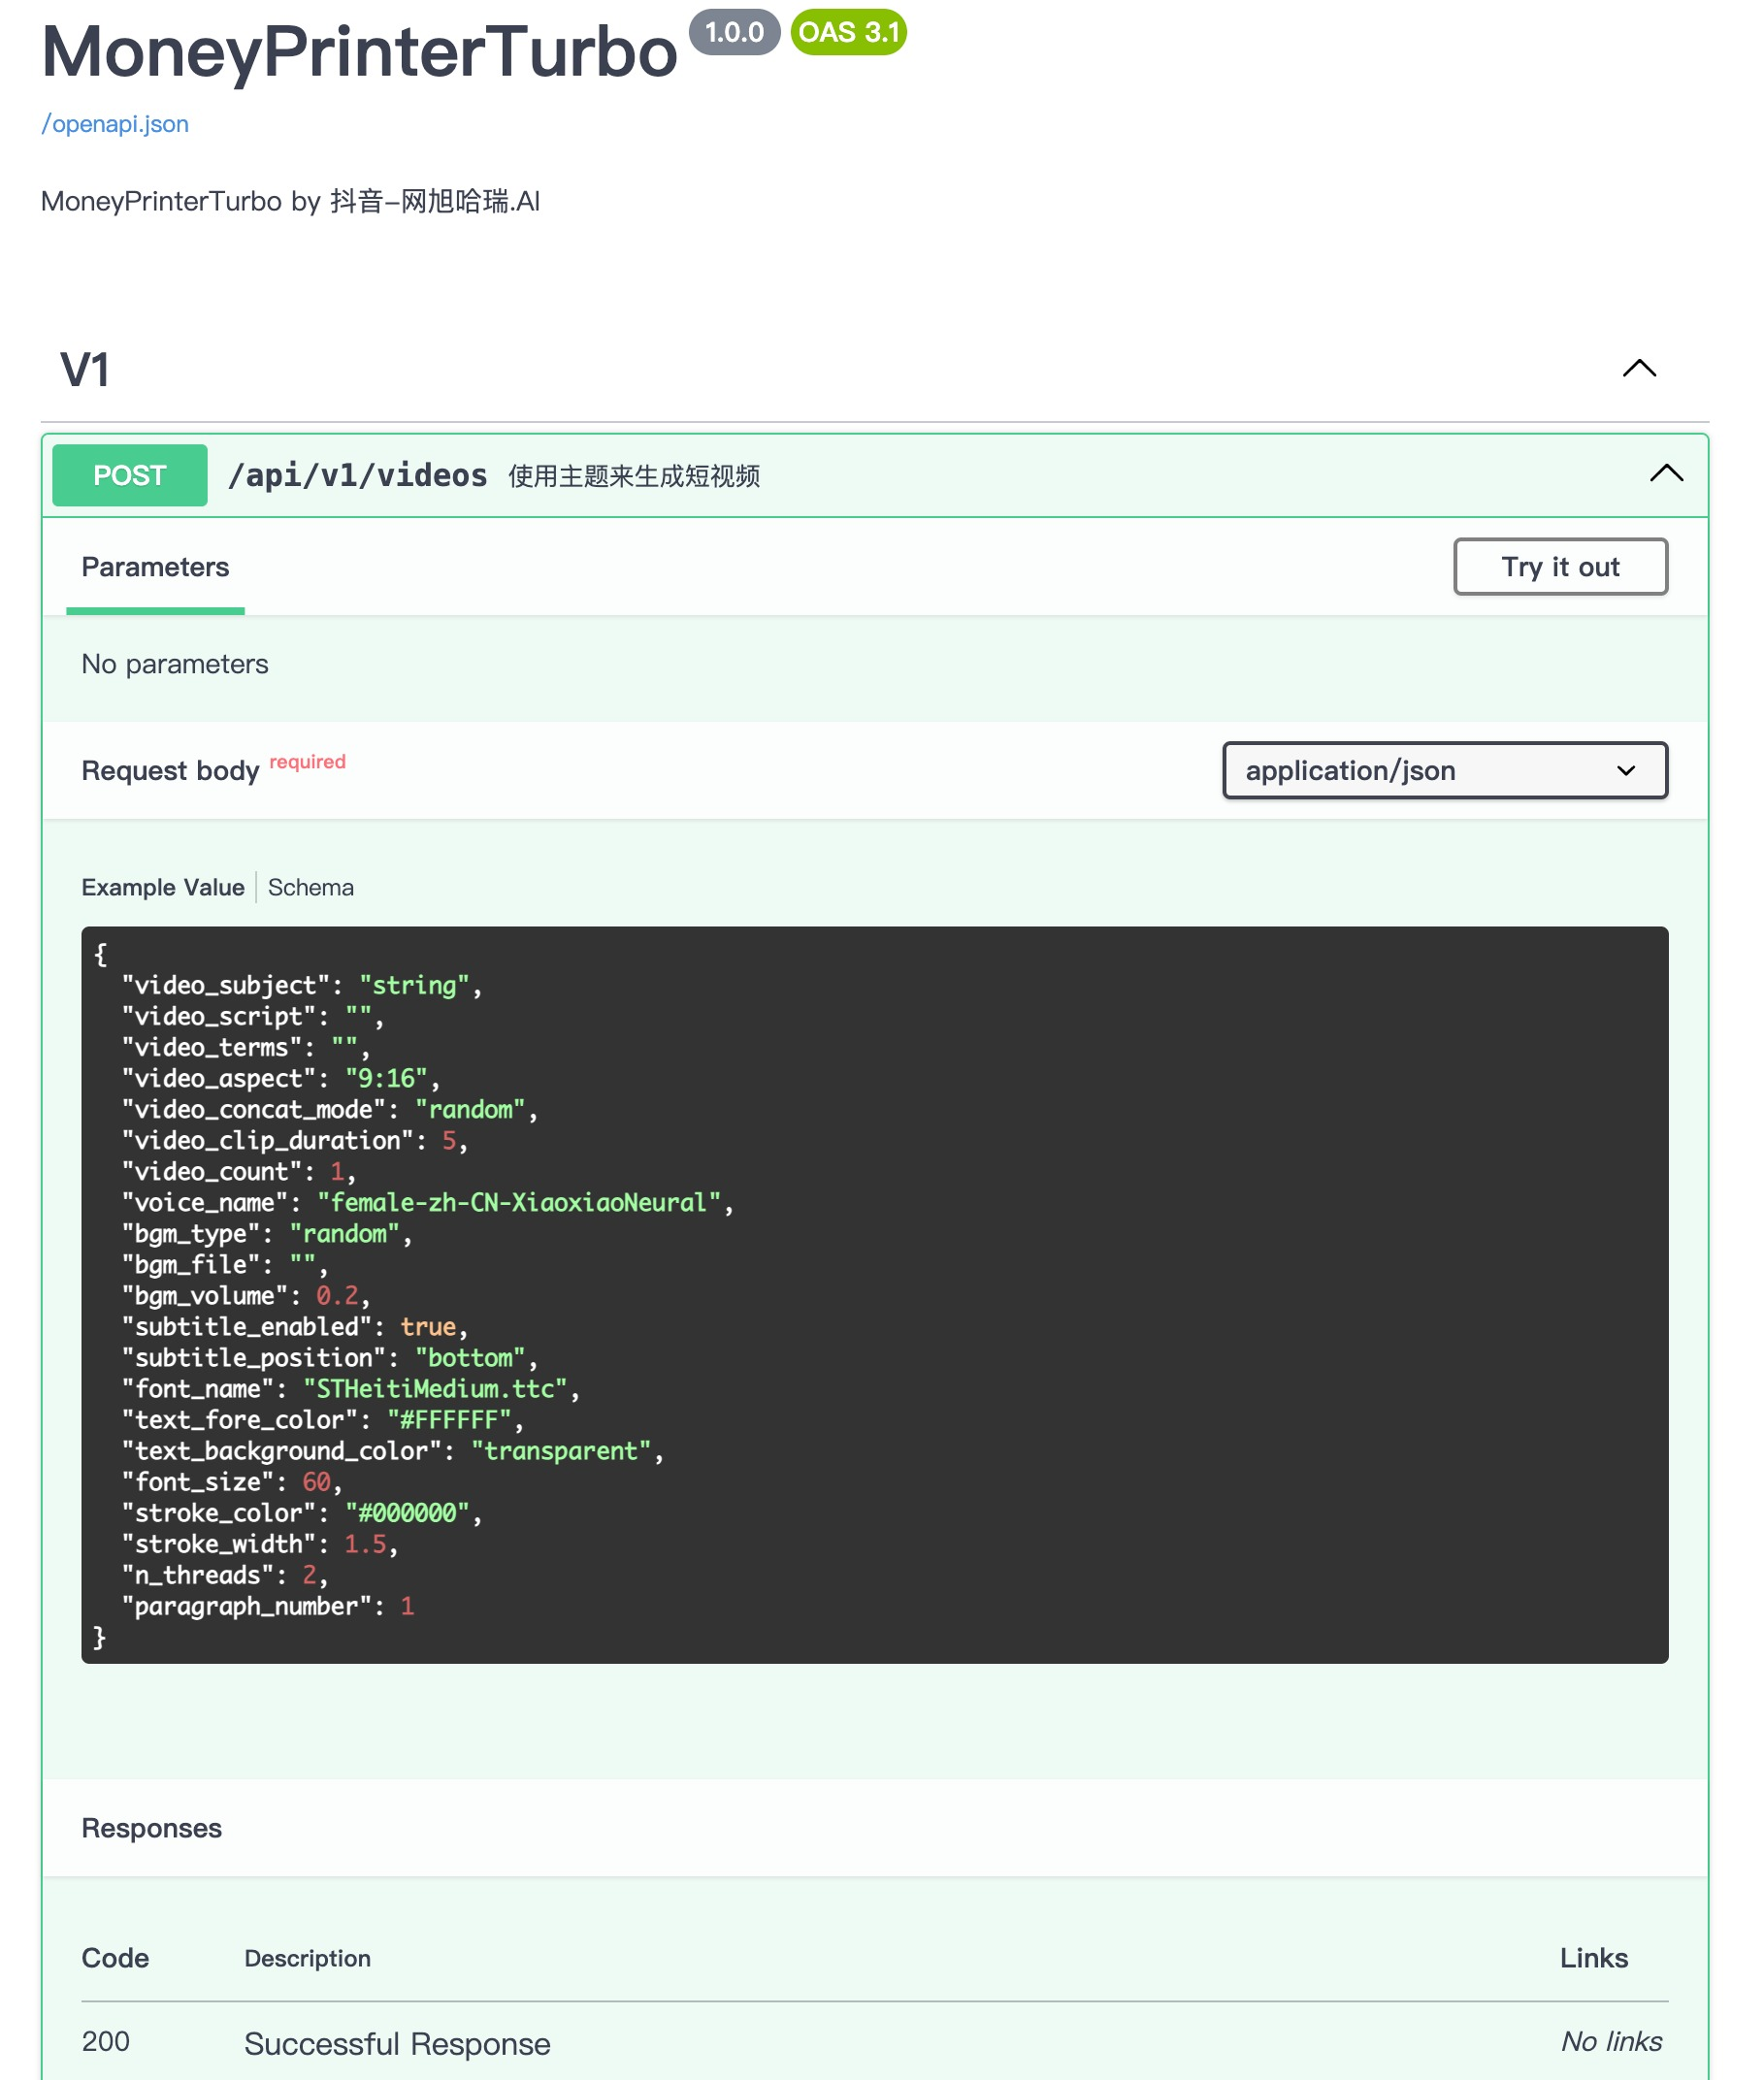
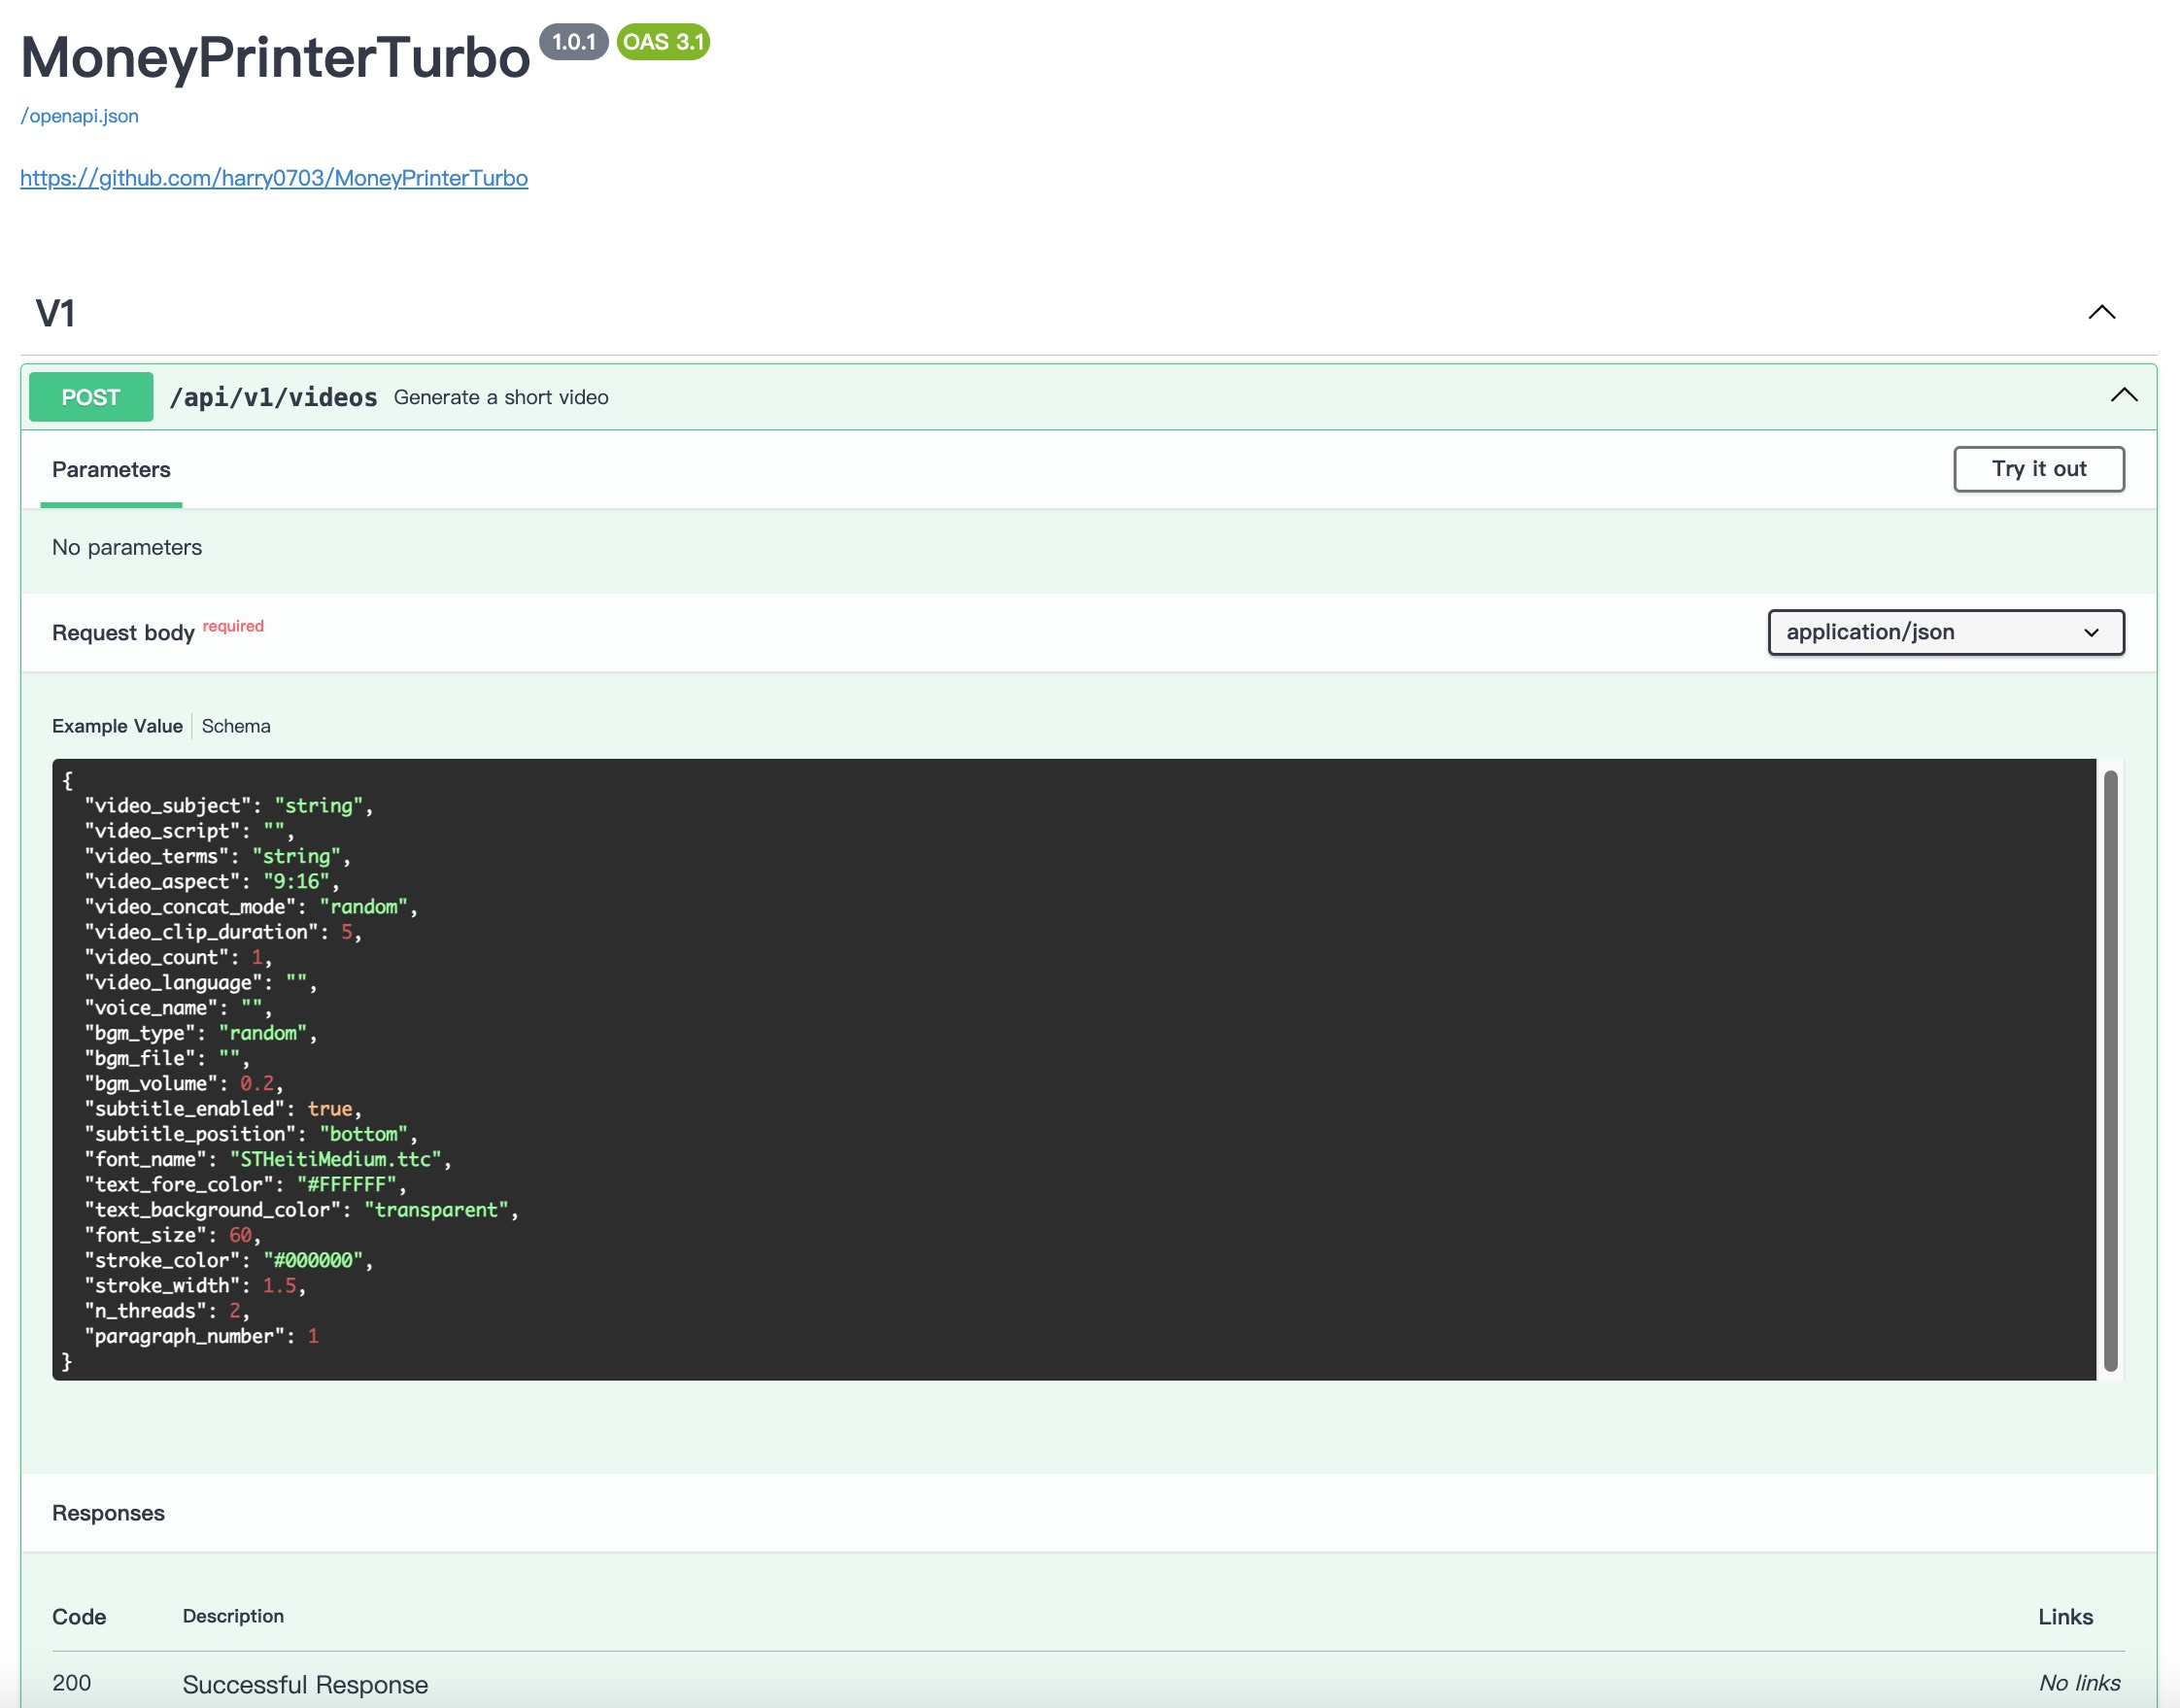
update readme

diff --git a/app/models/schema.py b/app/models/schema.py
@@ -139,6 +139,30 @@ class TaskResponse(BaseResponse):
 
     data: TaskResponseData
 
+    class Config:
+        json_schema_extra = {
+            "example": {
+                "status": 200,
+                "message": "success",
+                "data": {
+                    "task_id": "6c85c8cc-a77a-42b9-bc30-947815aa0558"
+                }
+            },
+        }
+
 
 class TaskQueryResponse(BaseResponse):
-    pass
+    class Config:
+        json_schema_extra = {
+            "example": {
+                "status": 200,
+                "message": "success",
+                "data": {
+                    "state": 1,
+                    "progress": 100,
+                    "videos": [
+                        "http://127.0.0.1:8080/tasks/6c85c8cc-a77a-42b9-bc30-947815aa0558/final-1.mp4"
+                    ]
+                }
+            },
+        }

diff --git a/README.md b/README.md
@@ -8,7 +8,7 @@
   <a href="https://github.com/harry0703/MoneyPrinterTurbo/blob/main/LICENSE"><img src="https://img.shields.io/github/license/harry0703/MoneyPrinterTurbo.svg?style=for-the-badge" alt="License"></a>
 </p>
 
-[English](README-en.md) | 简体中文
+<h3>[English](README-en.md)  | 简体中文</h3>
 
 只需提供一个视频 **主题** 或 **关键词** ，就可以全自动生成视频文案、视频素材、视频字幕、视频背景音乐，然后合成一个高清的短视频。
 
@@ -29,7 +29,7 @@
 
 ## 功能特性 🎯
 
-- [x] 完整的 **MVC架构**，代码 **结构清晰**，易于维护，支持API和Web界面
+- [x] 完整的 **MVC架构**，代码 **结构清晰**，易于维护，支持 `API` 和 `Web界面`
 - [x] 支持视频文案 **AI自动生成**，也可以**自定义文案**
 - [x] 支持多种 **高清视频** 尺寸
     - [x] 竖屏 9:16，`1080x1920`
@@ -188,7 +188,7 @@ sh webui.sh
 python main.py
 ```
 
-启动后，可以查看 `API文档` http://127.0.0.1:8080/docs 直接在线调试接口，快速体验。
+启动后，可以查看 `API文档` http://127.0.0.1:8080/docs 或者 http://127.0.0.1:8080/redoc 直接在线调试接口，快速体验。
 
 效果如下图：
 ![](docs/api.jpg)

diff --git a/README-en.md b/README-en.md
@@ -8,7 +8,7 @@
   <a href="https://github.com/harry0703/MoneyPrinterTurbo/blob/main/LICENSE"><img src="https://img.shields.io/github/license/harry0703/MoneyPrinterTurbo.svg?style=for-the-badge" alt="License"></a>
 </p>
 
-English | [简体中文](README.md)
+<h3>English | [简体中文](README.md)</h3>
 
 
 > Thanks to [RootFTW](https://github.com/Root-FTW) for the translation
@@ -34,7 +34,8 @@ https://reccloud.com
 
 ## Features 🎯
 
-- [x] Complete **MVC architecture**, **clearly structured** code, easy to maintain, supports both API and Web interface
+- [x] Complete **MVC architecture**, **clearly structured** code, easy to maintain, supports both `API`
+  and `Web interface`
 - [x] Supports **AI-generated** video copy, as well as **customized copy**
 - [x] Supports various **high-definition video** sizes
     - [x] Portrait 9:16, `1080x1920`